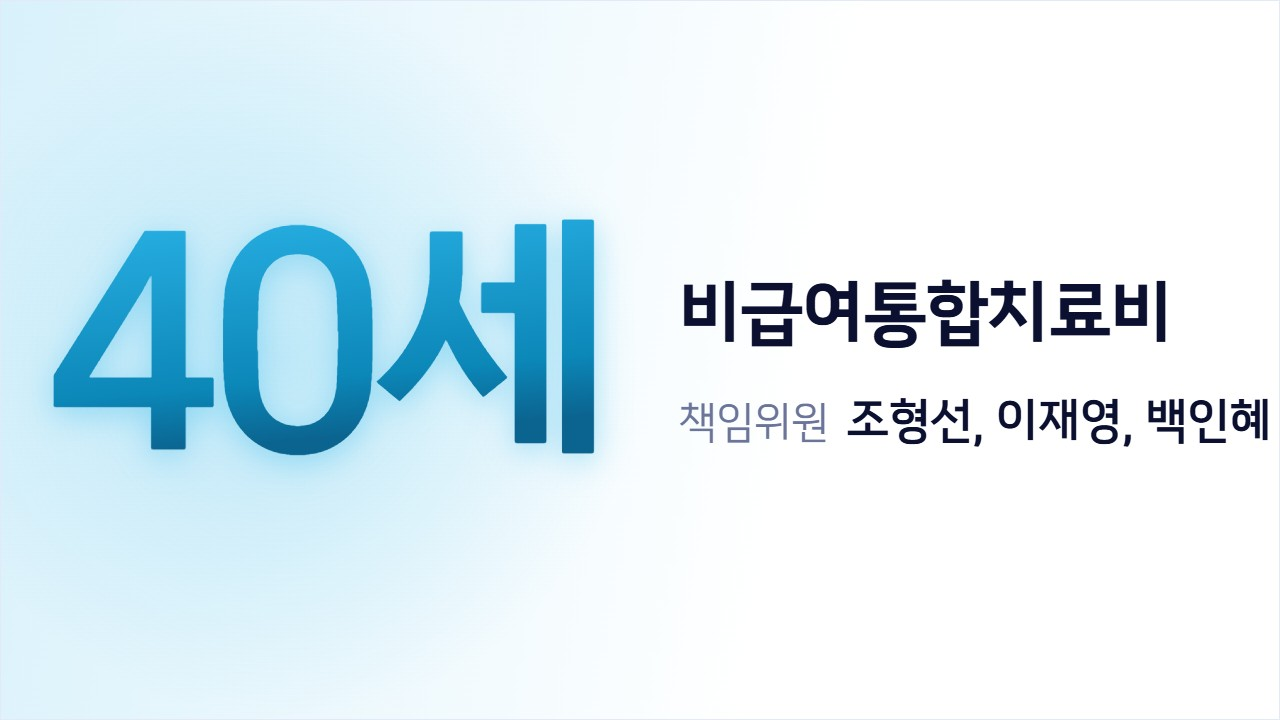
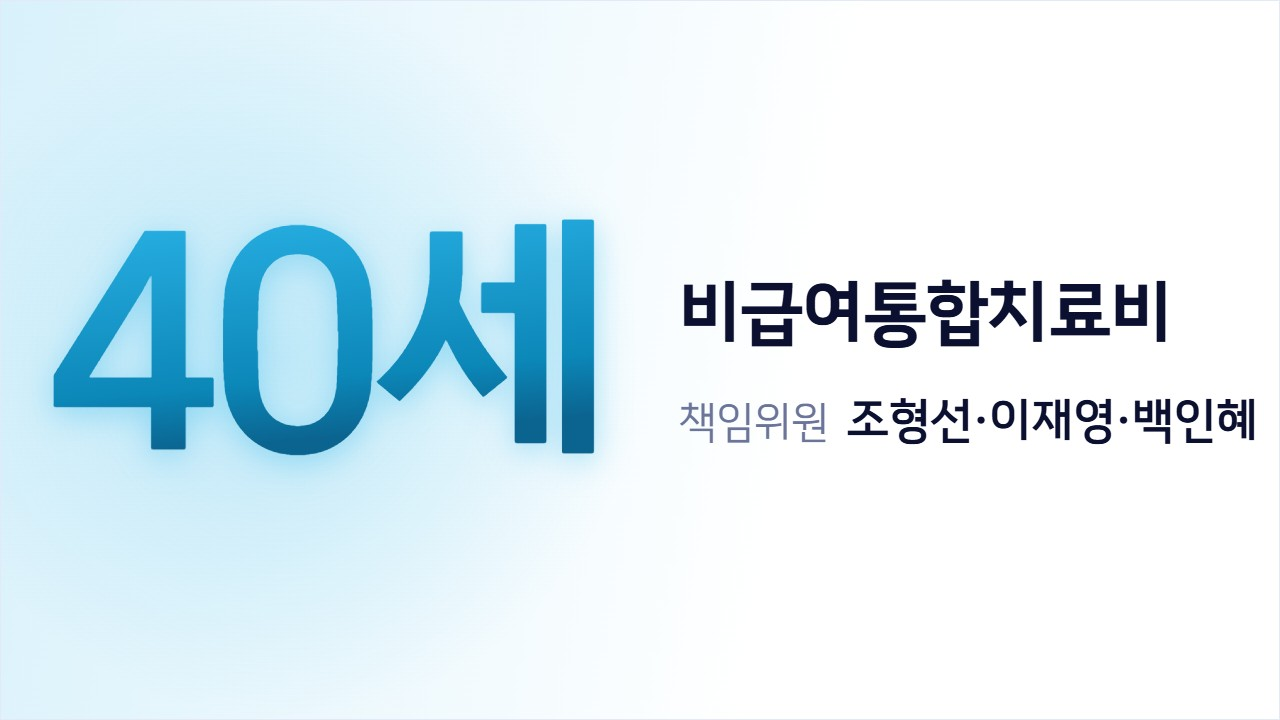
자료실 업데이트 · [시그니처클래스📖] 50세 암치료비, 비급여부터 점검하세요!

Changed region(s): [[0.75, 0.55, 1.0, 0.6417]]

diff --git a/research/2611/audxm5/index.html b/research/2611/audxm5/index.html
@@ -5,7 +5,7 @@
 <base href="../../../">
 <meta property="og:title" content="비급여통합치료비 상품연구 전략자료 모음(업데이트 중) 40세 비급여통합치료비 상품연구 전략자료">
 <meta property="og:description" content="교육자료 3개">
-<meta property="og:image" content="https://samsungfire-fs.github.io/sdp_edu/assets/research/t-2611-audxm5.jpg?v=eba0253f">
+<meta property="og:image" content="https://samsungfire-fs.github.io/sdp_edu/assets/research/t-2611-audxm5.jpg?v=41439efe">
 <meta property="og:url" content="https://samsungfire-fs.github.io/sdp_edu/research/2611/audxm5/">
 <meta property="og:type" content="website">
 <meta property="og:site_name" content="영업개발파트 교육 자료">
